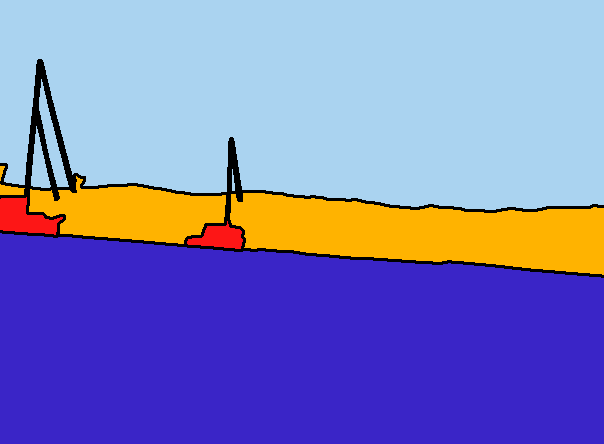
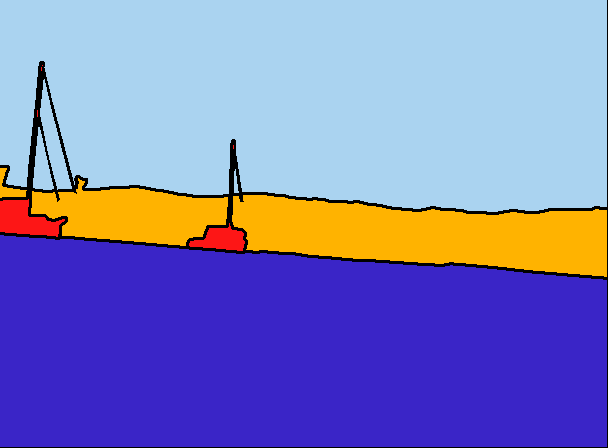
Commit after fixing the size bug

diff --git a/main.py b/main.py
@@ -1,10 +1,21 @@
 import cv2
 import numpy as np
 import os
+
 def create_borders(path:str,size = 5):
     img = cv2.imread(path, cv2.IMREAD_COLOR)
-    half = size//2
-    result_img = img.copy()[half:img.shape[0]-half, half:img.shape[1]-half]
+    print(f"Size before processing: {img.shape}")
+
+    result_img = img.copy()
+    half = size // 2
+
+    for i in range(half):
+        img = np.insert(img, 0, [(-1,-1,-1) for i in range(img.shape[0])], axis=1)
+        img = np.insert(img, img.shape[1], [(-1,-1,-1) for i in range(img.shape[0])], axis=1)
+
+        img = np.insert(img, 0, [(-1,-1,-1) for i in range(img.shape[1])], axis=0)
+        img = np.insert(img, img.shape[0], [(-1,-1,-1) for i in range(0, img.shape[1])], axis=0)
+
     print("Processing..")
     for i in range(half,img.shape[0]-half):
         for j in range(half,img.shape[1]-half):
@@ -14,7 +25,7 @@ def create_borders(path:str,size = 5):
             flag = False
             for k in range(crop_img.shape[0]):
                 for n in range(crop_img.shape[1]):
-                    if not(np.array_equal(crop_img[k,n],main_color)):
+                    if not(np.array_equal(crop_img[k,n],main_color)) and not(np.array_equal(crop_img[k,n],(-1,-1,-1))):
                         count += 1
                     if count >= 2:
                         flag = True
@@ -22,10 +33,14 @@ def create_borders(path:str,size = 5):
             if flag:
                 result_img[i-half,j-half] = (0,0,0)
     print("Done!")
+    print(f"Size after processing: {result_img.shape}")
+
 
     cv2.imwrite("./out/" + os.path.basename(path).split('.')[0] + ".png", result_img)
     cv2.imshow("AFTER", result_img)
-    cv2.imshow("BEFORE", img)
+
+    img_before = cv2.imread(path, cv2.IMREAD_COLOR)
+    cv2.imshow("BEFORE", img_before)
 
 
     cv2.waitKey(0)
@@ -33,4 +48,4 @@ def create_borders(path:str,size = 5):
     cv2.destroyAllWindows()
 
 
-create_borders("./in/00001.png")
+create_borders("./in/00002.png")
